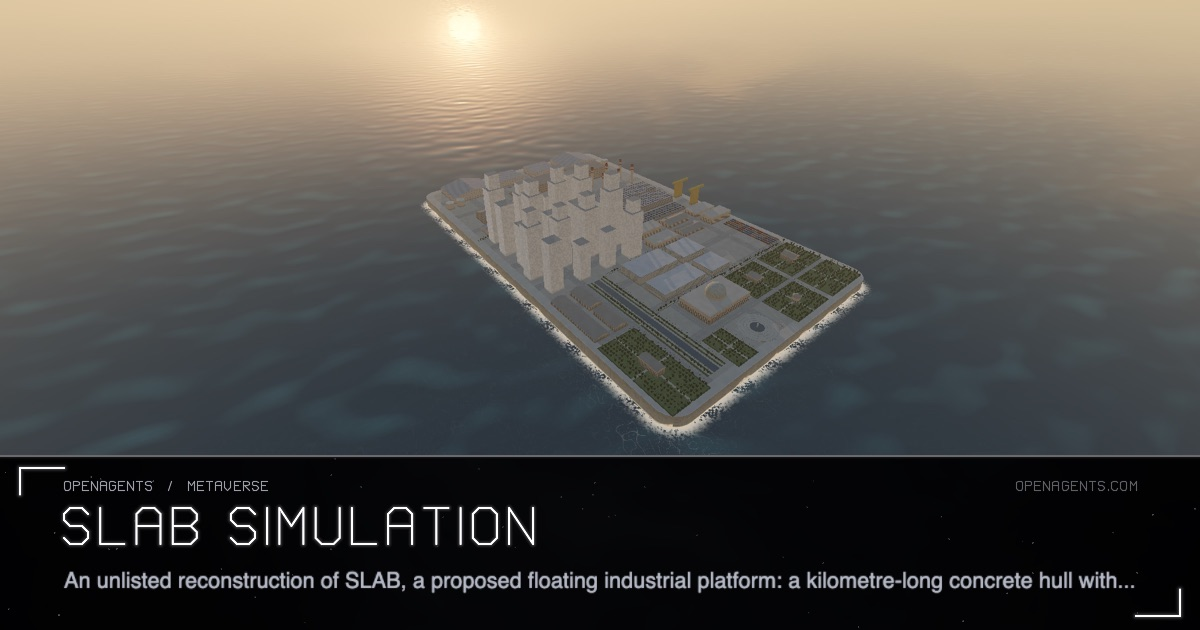
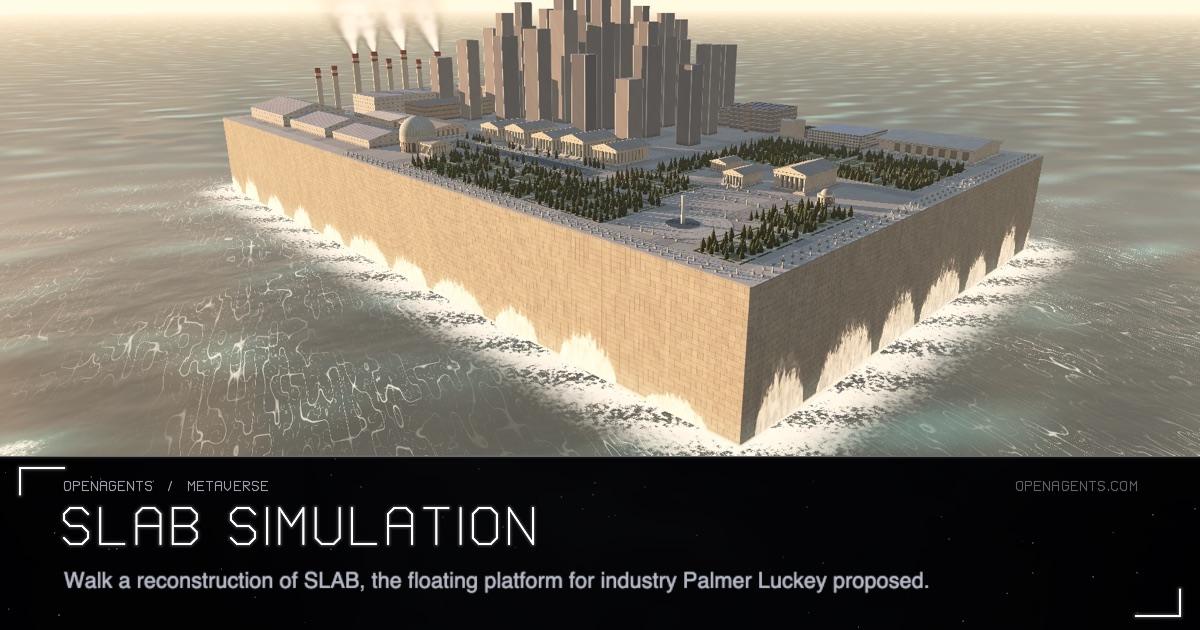
SLAB: a share card that shows the world close, with a line that fits
The link preview is the first thing people see from the post. The card
showed the platform small and far off, with its line cut short at
"a kilometre-long concrete hull with...".

The card's still is now the opening view brought in to fill the band:
the whole hull, the surf at its walls and the stacks smoking (a slab
entry in og-render.ts's STILLS). The share line is 89 characters, so
the card and X show it whole. The page keeps summary_large_image, a
1200 x 630 image, and og:url https://openagents.com/worlds/slab.

Rendered with bun coax/web/og-render.ts /realms/slab against a site
staged locally (deploy.sh with COAXIAL_STAGE_TO, which uploads
nothing). That stage also shows the release's file set holds the page:
site/realms/slab/index.html names /build/slab.<hash>.wasm and .wgsl.
208 KB; og.ts --cards passes. Other agents are changing the world's
look: render it again at the end.

Agent: claude-slab-prepost

diff --git a/apps/openagents-web/realms/slab/index.html b/apps/openagents-web/realms/slab/index.html
@@ -9,7 +9,7 @@
 <meta property="og:type" content="website">
 <meta property="og:site_name" content="OpenAgents">
 <meta property="og:title" content="SLAB Simulation">
-<meta property="og:description" content="Walk a reconstruction of SLAB, the floating platform for industry that Palmer Luckey proposed: a kilometre of concrete carrying a city on open ocean.">
+<meta property="og:description" content="Walk a reconstruction of SLAB, the floating platform for industry Palmer Luckey proposed.">
 <meta property="og:url" content="https://openagents.com/worlds/slab">
 <meta property="og:image" content="https://openagents.com/og/realms/slab.jpg">
 <meta property="og:image:width" content="1200">
@@ -17,7 +17,7 @@
 <meta property="og:image:alt" content="SLAB Simulation: a still of the world, with its name">
 <meta name="twitter:card" content="summary_large_image">
 <meta name="twitter:title" content="SLAB Simulation">
-<meta name="twitter:description" content="Walk a reconstruction of SLAB, the floating platform for industry that Palmer Luckey proposed: a kilometre of concrete carrying a city on open ocean.">
+<meta name="twitter:description" content="Walk a reconstruction of SLAB, the floating platform for industry Palmer Luckey proposed.">
 <meta name="twitter:image" content="https://openagents.com/og/realms/slab.jpg">
 <meta name="theme-color" content="#000000">
 <link rel="icon" type="image/svg+xml" href="/favicon.svg">

diff --git a/coax/web/og-render.ts b/coax/web/og-render.ts
@@ -61,6 +61,8 @@ const STILLS: Record<string, { path?: string; query?: string; skip?: number; siz
   "painted-village": { crop: [100, 50, 1380, 525] },
   "nostr-lab": { crop: [380, 50, 1300, 494] },
   "coax-lab": { query: "?golden&at=mandelbrot", crop: [314, 48, 830, 315] },
+  // the opening view brought in to fill the card's band: the whole hull, its surf and the smoking stacks
+  "slab": { query: "?golden&t=40&yaw=0.802&pitch=0.30&dist=900&x=120&z=60&y=20" },
 }
 const dirOf = (path: string) => path.replace(/^\//, "")
 // A page's card is ours to render when it isn't hand-made: its image is the default or its rendered card.
